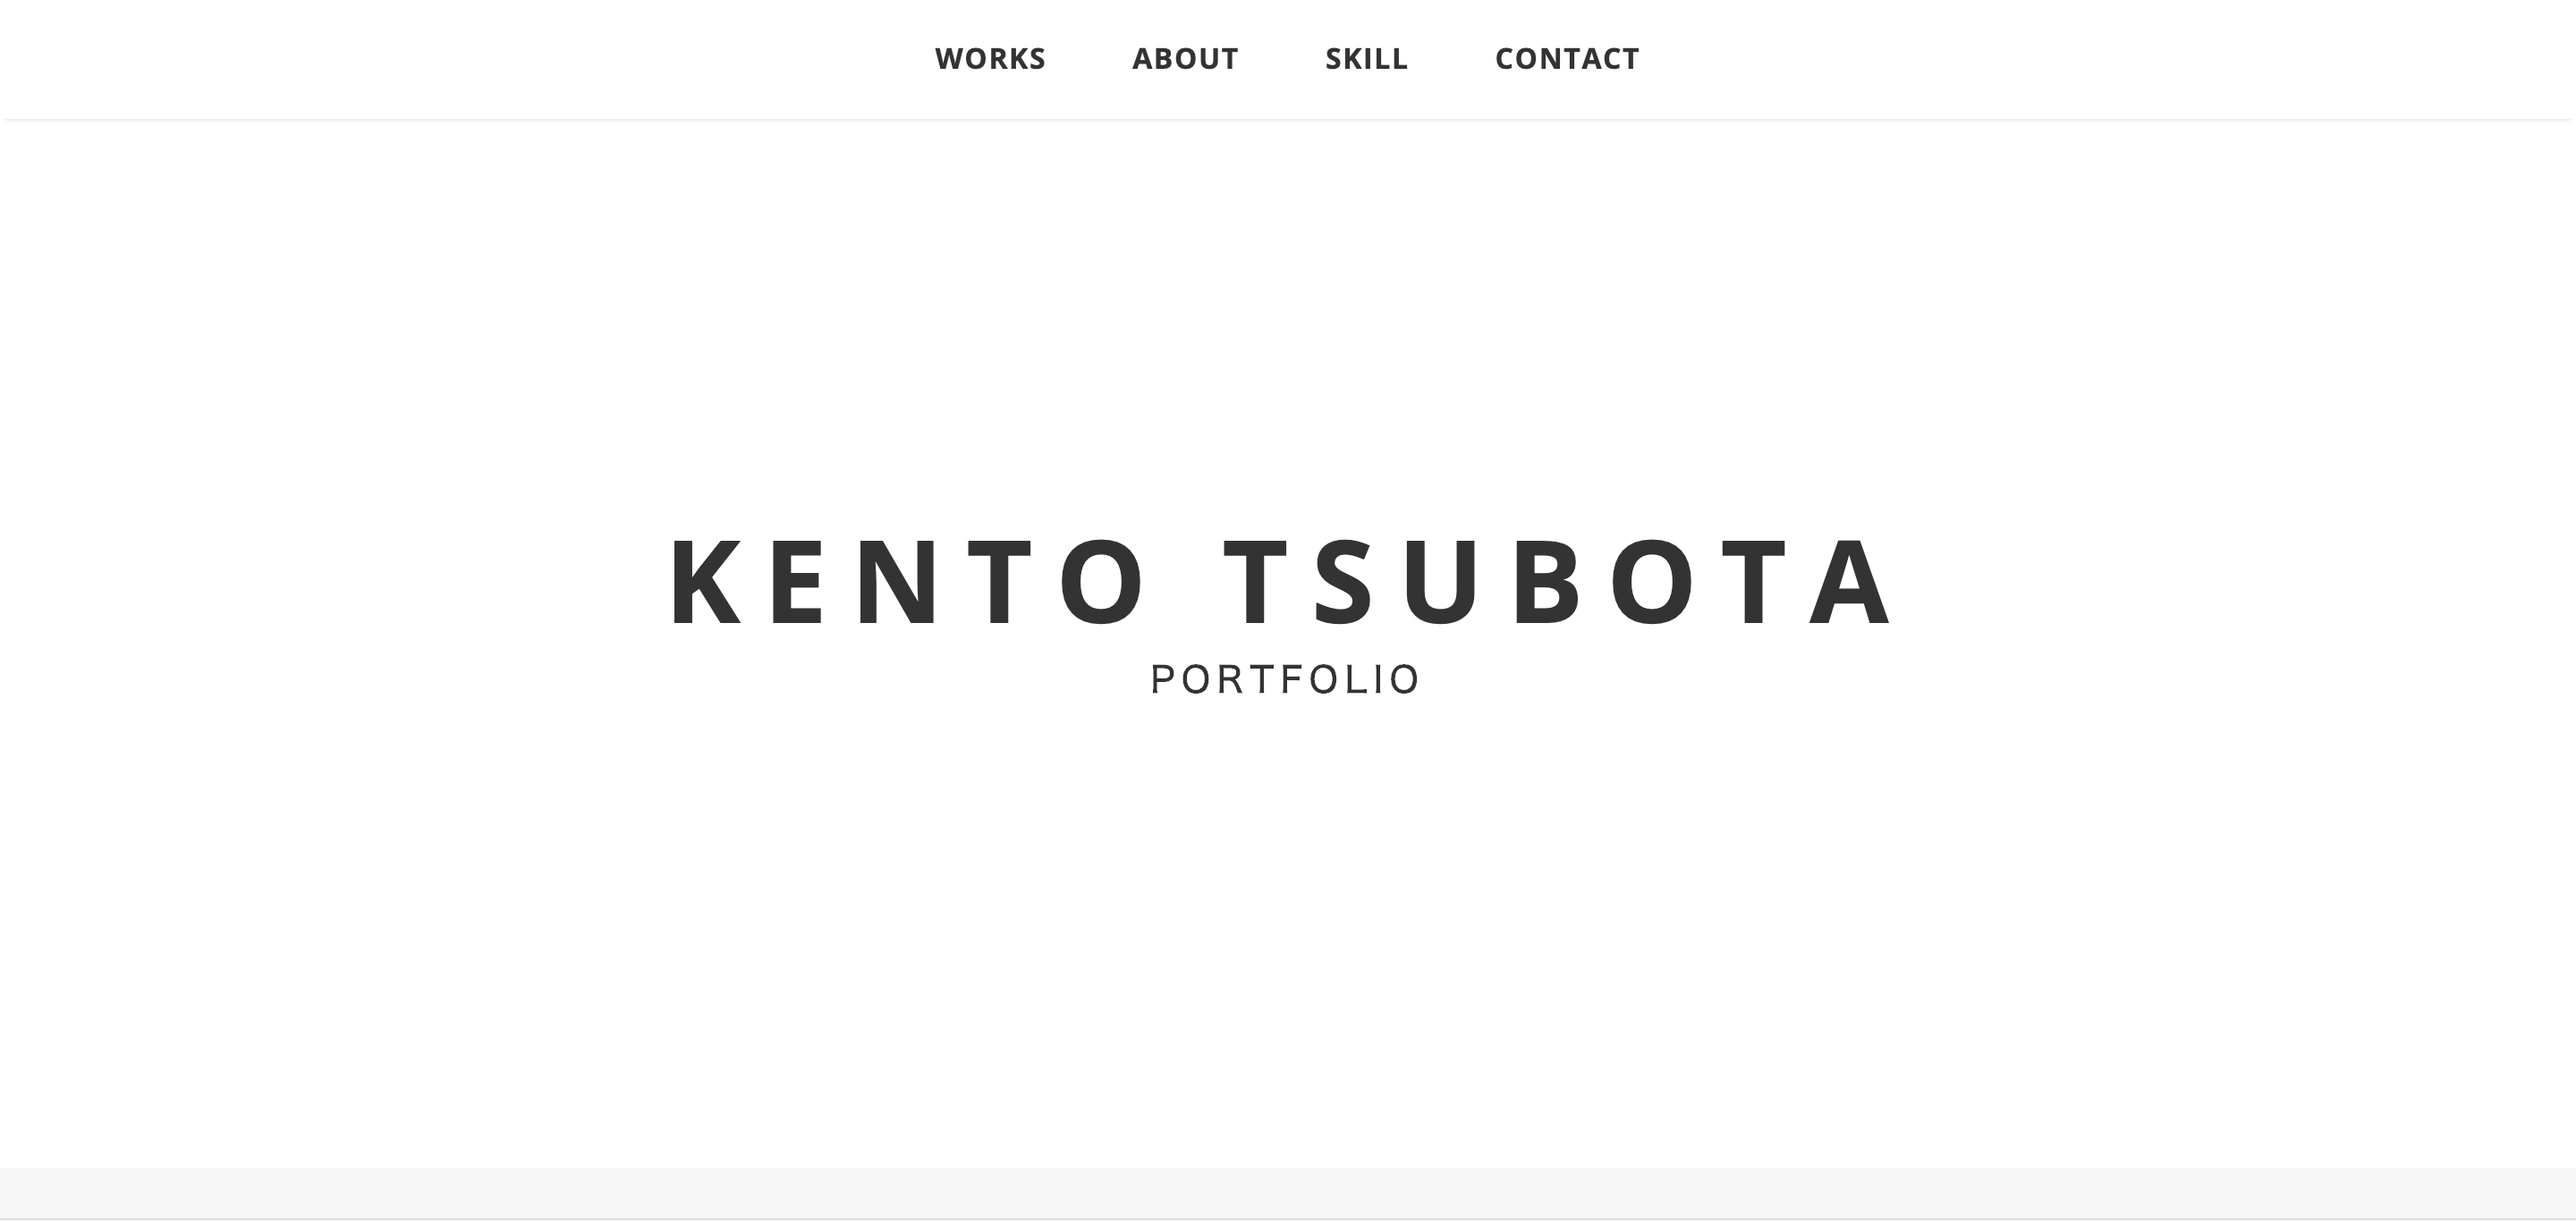
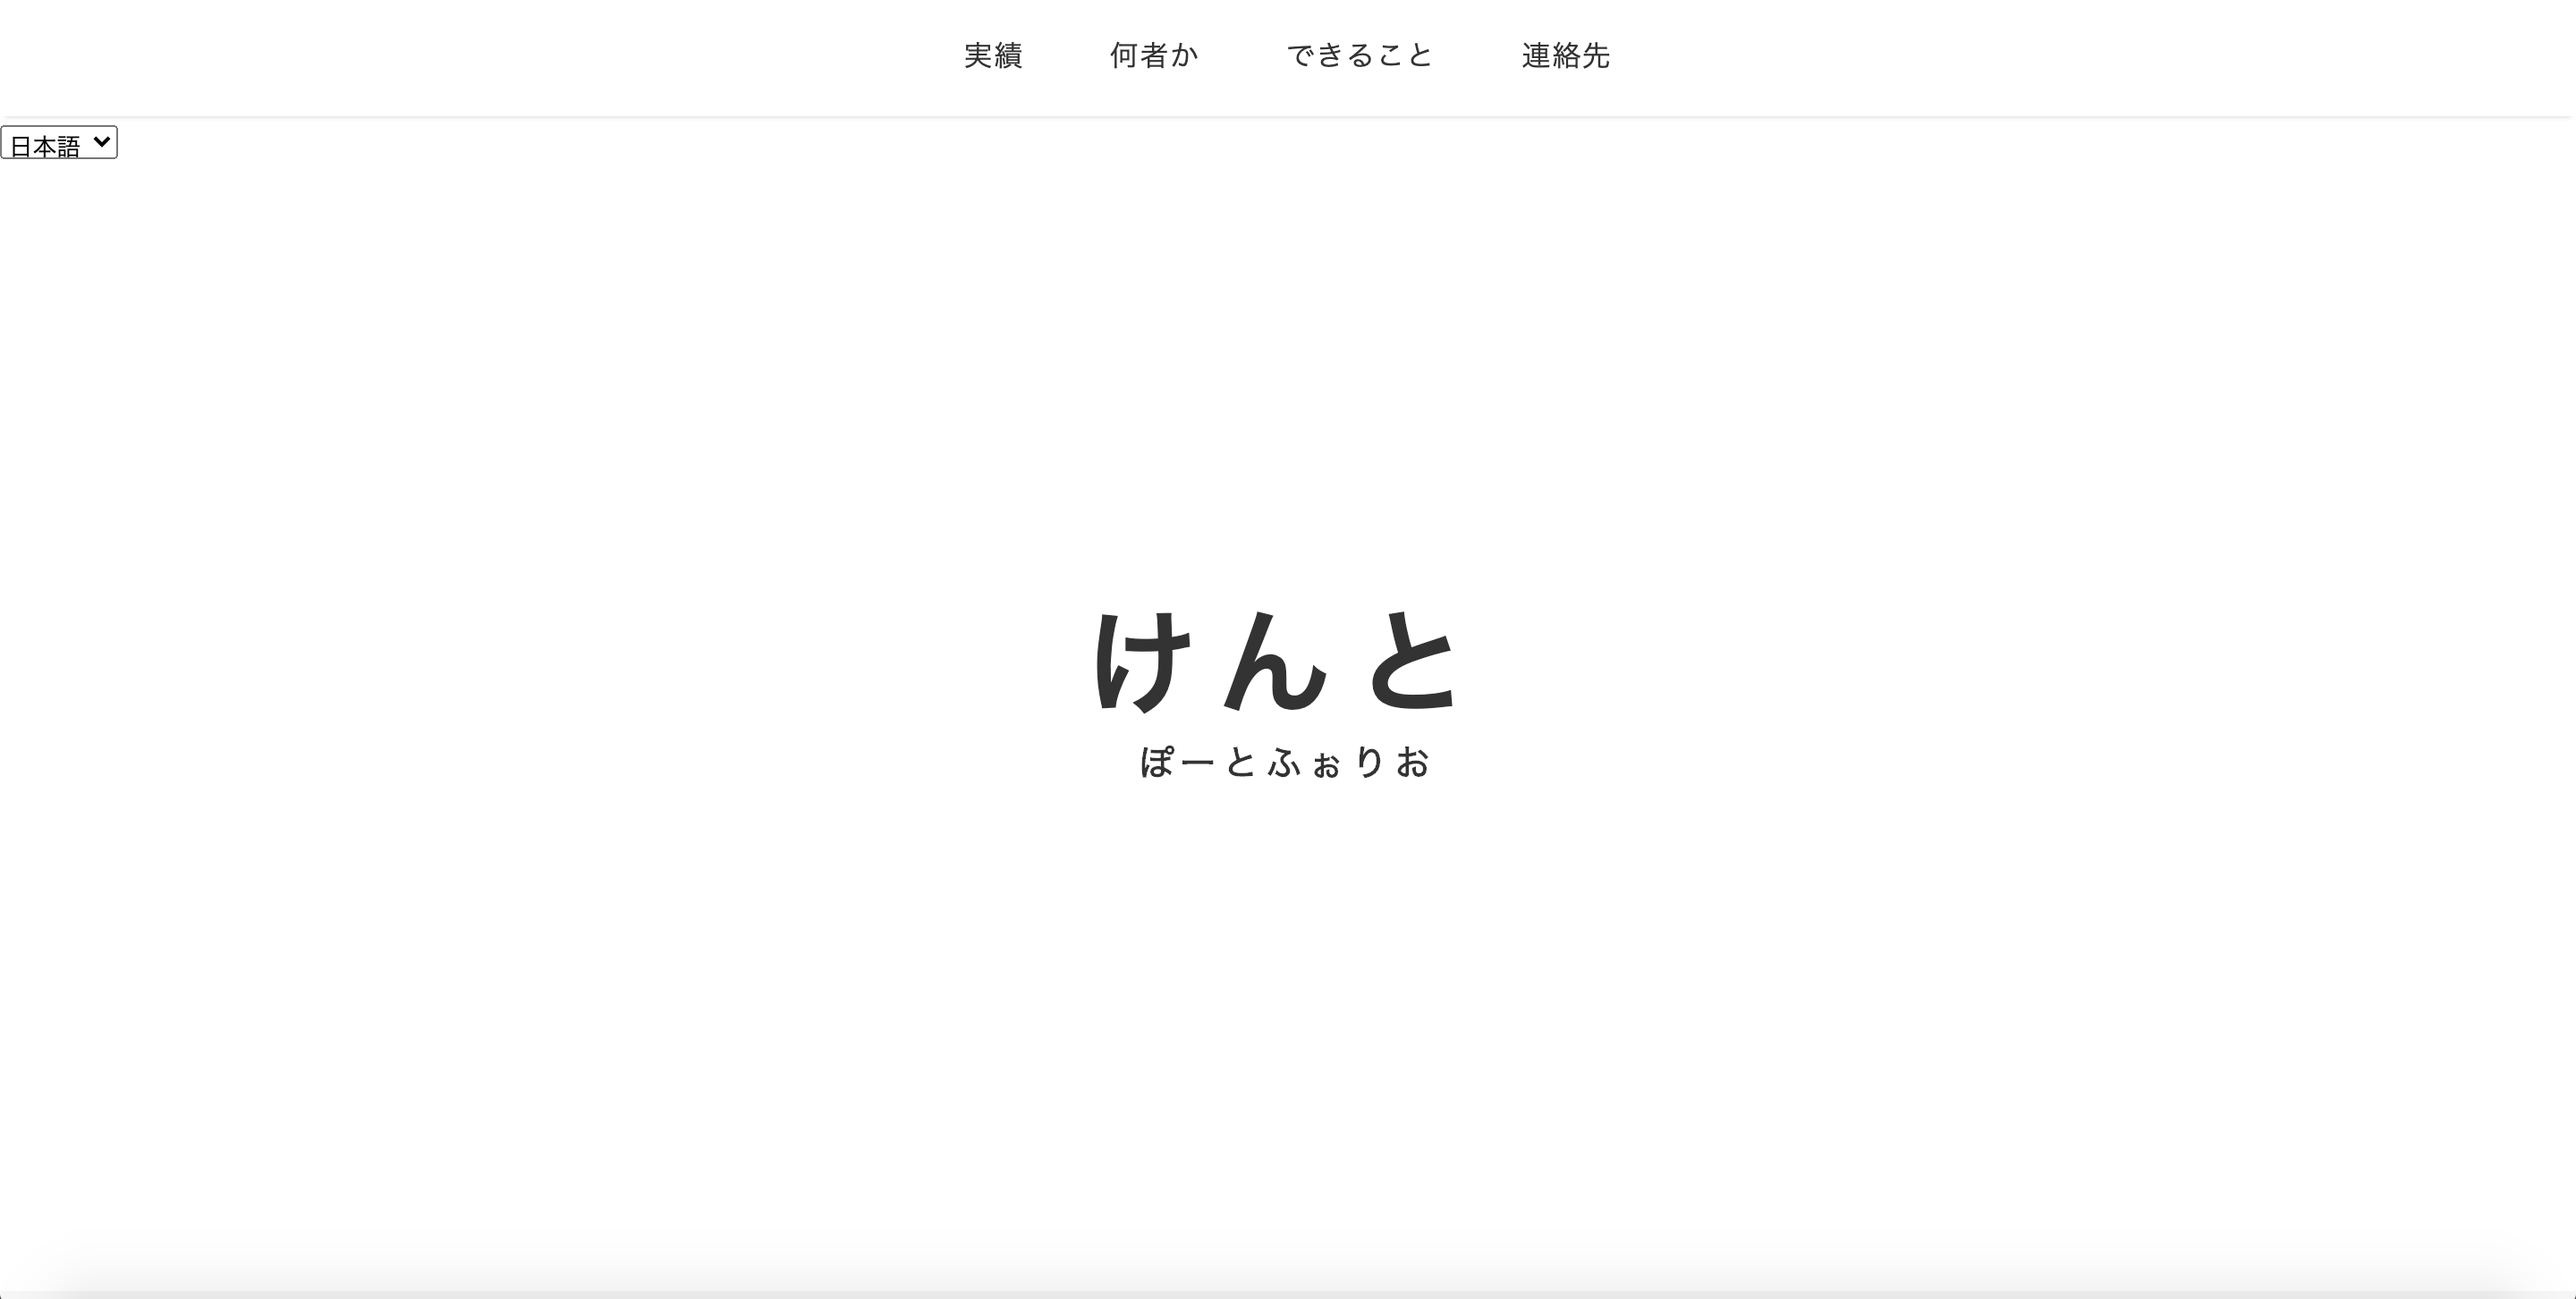
others

diff --git a/index.html b/index.html
@@ -4,12 +4,12 @@
   <meta charset="utf-8">
   <meta name="viewport" content="width=device-width,initial-scale=1.0,user-scalable=no">
   <meta property='og:type' content='website'>
-  <meta property='og:title' content='KENTO TSUBOTA ポートフォリオ'>
+  <meta property='og:title' content='KENTO ポートフォリオ'>
   <meta property='og:url' content='URLが入る'>
-  <meta property='og:description' content='KENTO TSUBOTAのポートフォリオサイトです！'>
+  <meta property='og:description' content='KENTOのポートフォリオサイトです！'>
   <meta property="og:image" content="img/ogp.png">
-  <meta name="description" content="KENTO TSUBOTAのポートフォリオサイトです！" />
-  <title>KENTO TSUBOTA ポートフォリオ</title>
+  <meta name="description" content="KENTOのポートフォリオサイトです！" />
+  <title>KENTO ポートフォリオ</title>
   <link href="https://fonts.googleapis.com/css?family=Open+Sans:700" rel="stylesheet">
   <link href="css/reset.css" media="all" rel="stylesheet" type="text/css" />
   <link href="css/photoswipe/photoswipe.css" media="all" rel="stylesheet" type="text/css" />
@@ -35,6 +35,7 @@
         <li class="gnav-item"><a class="gnav-link" href="#about-section">ABOUT</a></li>
         <li class="gnav-item"><a class="gnav-link" href="#skill-section">SKILL</a></li>
         <li class="gnav-item"><a class="gnav-link" href="#contact-section">CONTACT</a></li>
+        <li class="gnav-item"><a class="gnav-link" href="#others-section">OTHERS</a></li>
       </ul>
     </nav>
 
@@ -44,7 +45,7 @@
     <!-- .header -->
     <header class="header">
       <h1 class="logo">
-        <div class="logo-title">KENTO TSUBOTA</div>
+        <div class="logo-title">KENTO</div>
         <div class="logo-subtitle">PORTFOLIO</div>
       </h1>
     </header>
@@ -71,7 +72,7 @@
                 </a>
                 <figcaption class="works-body">
                   <div class="works-title">ポートフォリオ（当サイト）</div>
-                  <div class="works-text">言語：HTML/CSS</div>
+                  <div class="works-text">言語：HTML/CSS/JavaScript</div>
                   <div class="works-url"><a class="works-url-link" href="https://github.com/herisson0818/portfolio" target="_blank">GitHub</a>
                   </div>
                 </figcaption>
@@ -334,6 +335,31 @@
       </section>
       <!-- /.contact-section -->
 
+      <!-- .others-section -->
+      <section class="others-section section" id="others-section">
+        <div class="inner">
+          <div class="section-heading">
+            <h2 class="heading-primary">OTHERS</h2>
+          </div>
+          <div class="section-lead">
+            <p>このサイトの満足度採点</p>
+            <form id ="form" action="thankyou.html">
+              <input type="radio" name="frequency">とても満足した<br>
+              <input type="radio" name="frequency">わりと満足した<br>
+              <input type="radio" name="frequency">どちらでもない<br>
+              <input type="radio" name="frequency">満足しなかった<br>
+              <input type="submit" name="送信する" id="submit"><br>
+            </form>
+          </div>
+          <!--<div class="section-body others">
+            <ul class="others-list">
+            <div class="others-text">lyla.0218@gmail.com</div>
+          </div> -->
+        </div>
+      </section>
+      <!-- /.others-section -->
+
+
     </main>
 
     <!-- .footer -->
@@ -342,7 +368,7 @@
         トップへもどる
       </div>
       <div class="inner">
-        <div class="copyright">Copyright&copy;KENTO TSUBOTA. All Rights Reserved.</div>
+        <div class="copyright">Copyright&copy;KENTO. All Rights Reserved.</div>
       </div>
     </footer>
     <!-- /.footer -->

diff --git a/index-ja.html b/index-ja.html
@@ -4,12 +4,12 @@
   <meta charset="utf-8">
   <meta name="viewport" content="width=device-width,initial-scale=1.0,user-scalable=no">
   <meta property='og:type' content='website'>
-  <meta property='og:title' content='つぼたけんと ポートフォリオ'>
+  <meta property='og:title' content='けんと ポートフォリオ'>
   <meta property='og:url' content='URLが入る'>
-  <meta property='og:description' content='つぼたけんとのポートフォリオサイトです！'>
+  <meta property='og:description' content='けんとのポートフォリオサイトです！'>
   <meta property="og:image" content="img/ogp.png">
-  <meta name="description" content="つぼたけんとのポートフォリオサイトです！" />
-  <title>つぼたけんと ポートフォリオ</title>
+  <meta name="description" content="けんとのポートフォリオサイトです！" />
+  <title>けんと ポートフォリオ</title>
   <link href="https://fonts.googleapis.com/css?family=Open+Sans:700" rel="stylesheet">
   <link href="css/reset.css" media="all" rel="stylesheet" type="text/css" />
   <link href="css/photoswipe/photoswipe.css" media="all" rel="stylesheet" type="text/css" />
@@ -44,7 +44,7 @@
     <!-- .header -->
     <header class="header">
       <h1 class="logo">
-        <div class="logo-title">つぼたけんと</div>
+        <div class="logo-title">けんと</div>
         <div class="logo-subtitle">ぽーとふぉりお</div>
       </h1>
     </header>
@@ -201,7 +201,7 @@
                   2021年1月からエンジニアに転職することを目標にプログラミング学習中です。<br>
                   現職は異業種ですが、仕事終わりや早朝、昼休みなどの空き時間を見つけては勉強してます。<br>
                 </p>
-                <p class="timer">転職まで「<span id="day"></span>日<span id="hour"></span>時間<span id="min"></span>分<span id="sec"></span>秒」</p>
+                <p class="timer">転職目標まで「<span id="day"></span>日<span id="hour"></span>時間<span id="min"></span>分<span id="sec"></span>秒」</p>
               </div>
             </div>
           </div>
